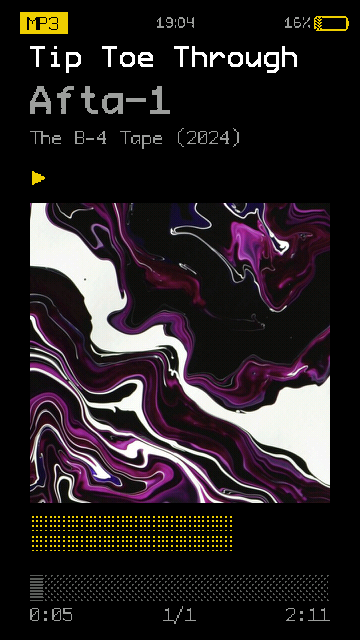
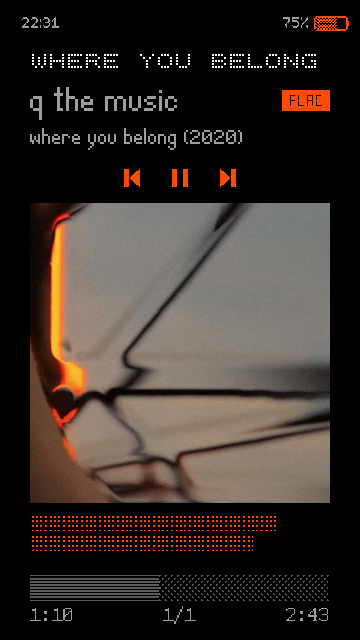
README and previews: re-captured in the Rockbox simulator
All four previews are rendered by the hidizsap80max simulator from the
current theme, in one session: q the music - "where you belong" (2020,
24-bit/48 kHz FLAC with the Bandcamp cover embedded) playing at 1:10,
then the USB screen while charging. The touch-zones overlay is re-based
onto the new now playing capture.

README: touch controls table, updated feature list and fonts, preview
credit line.

diff --git a/README.md b/README.md
@@ -1,29 +1,36 @@
 # FleshAndBones — AP80 Pro Max
 
-**FleshAndBones** is a high-contrast, amber-on-black Rockbox theme built for the **Hidizs AP80 Pro Max** (360×640 portrait touchscreen). It is a faithful port of nicnic's *FleshAndBones* — itself based on Jihoon Kim's *OneBit_OLED* and chronicallyoffline's *OneBit_VFD* — re-laid-out natively for the device's tall 249 dpi panel, with every bitmap and font scaled ×1.5 from the original 320×240 assets so the classic pixel grid and proportions are preserved.
+**FleshAndBones** is a high-contrast Rockbox theme with vacuum-tube orange accents on black, built for the **Hidizs AP80 Pro Max** (360×640 portrait touchscreen). It is a faithful port of nicnic's *FleshAndBones* — itself based on Jihoon Kim's *OneBit_OLED* and chronicallyoffline's *OneBit_VFD* — re-laid-out natively for the device's tall 249 dpi panel, with every bitmap and the original fonts scaled ×1.5 from the original 320×240 assets so the classic pixel grid and proportions are preserved.
 
 ## Previews
 
-| Main menu | Now playing |
-|:---------:|:-----------:|
-| ![Main menu](previews/00-main-menu.png) | ![Now playing](previews/02-now-playing.png) |
+| Main menu | Now playing | Touch zones | USB connected |
+|:---------:|:-----------:|:-----------:|:-------------:|
+| ![Main menu](previews/00-main-menu.png) | ![Now playing](previews/02-now-playing.png) | <img src="previews/03-touch-zones.png" width="360" alt="Touch zones"> | ![USB screen](previews/04-usb-screen.png) |
+
+<sub>Screenshots rendered by the Rockbox simulator for the AP80 Pro Max. Track: [“where you belong” by q the music](https://qthemusic.bandcamp.com/track/where-you-belong) (2020) — cover art © q the music.</sub>
 
 ## Features
 
 - **Full WPS layout** — track title / artist / album, 300×300 album-art box, dithered progress bar, peak meter, and graphic volume bar
-- **Custom header** — codec tag (`MP3`, `FLAC`, …), clock, battery percentage + 11-frame battery icon, all drawn by the skin (status bar disabled)
+- **Vacuum-tube orange accents** (`#FF4D00`) on pure black — battery icon, playback buttons, peak meter, codec tag, the selected item in every list and the menu's header and footer rules.
+- **Dot-matrix track info** — the title in *SquareDotCombined* (also covers Japanese, Chinese and Korean), the artist and album in *LanaPixel*, and a solid orange codec tag (`MP3`, `FLAC`, …) in *Digital-7 Mono* at the end of the artist line
+- **Tactile progress bar** — tap it to jump, or drag along it and lift to seek, with a finger-sized touch zone around the bar
+- **Touch transport** — small previous · play/pause · next buttons (16×18 px glyphs, 48 px apart) centred under the track info
+- **Custom header** — clock on the left, battery percentage + 11-frame battery icon on the right, all drawn by the skin (status bar disabled)
 - **Lock screen** — big clock, now-playing info, time remaining, plus charging / low-battery states
-- **Playback indicators** — play, shuffle, repeat and seek icons in the play screen
+- **USB screen** — while connected to a computer: a big clock, the date, the battery level (big percentage + a dot-matrix gauge in the peak meter's style), charging status (Charging / Charged / Not charging) and battery voltage, with the eject reminder in the footer
+- **Playback indicators** — shuffle, repeat and seek icons in the play screen
 - **1-bit monochrome iconset** for the file browser and viewers (`modone.bmp` / `modone_viewer.bmp`)
-- **ProFontIIx + Monogram fonts** at every UI size, preloaded for smooth rendering
-- **Touch-friendly lists** — row pitch tuned to the panel (font 26 + list padding 57 = 83 px), exactly seven rows filling the screen
+- **LanaPixel main font** for the menus, file browser, settings and the now-playing footer (covers Japanese, Chinese and Korean), with the original ProFontIIx + Monogram fonts for the clock, battery percentage and labels, plus the three track-info fonts on the now-playing screen. The "Rockbox" title in the menu header uses the track title's dot-matrix font (SquareDotCombined)
+- **Touch-friendly lists** — row pitch tuned to the panel (LanaPixel 42 px + list padding 37 = 79 px), exactly six rows between the header and the now playing footer, with a margin above and below them so rows scrolled by touch stop short of the orange rules
 - **Portrait-native WPS/SBS** authored directly at 360×640 — no letterboxing or scale artifacts
 
 ## Contents
 
 ```
 .rockbox/
-├── fonts/    # ProFontIIx (23/26/33/35/44/50) + 11-monogram
+├── fonts/    # LanaPixel (14/21), ProFontIIx (23/26/33/35/44/50) + 11-monogram, 35-SquareDotCombined, 20-digital7mono
 ├── icons/    # modone iconset (main + viewers)
 ├── themes/   # FleshAndBones.cfg (colours, fonts, list padding)
 └── wps/      # FleshAndBones.wps / FleshAndBones.sbs + bitmaps
@@ -33,9 +40,28 @@
 
 1. Copy the **contents** of `.rockbox/` (`fonts`, `icons`, `themes`, `wps`) into the `.rockbox` folder on your AP80 Pro Max, merging with any existing files.
 2. On the device go to **Settings → Theme Settings → Theme** and select **FleshAndBones**.
-3. Restart or re-apply the theme if the skin does not refresh immediately.
+3. Restart or re-apply the theme if the skin does not refresh immediately. When updating from an earlier version, select the theme again: the colours, the main font and the list padding are stored in the theme's `.cfg`, and Rockbox only reads them when the theme is applied.
 
 > **Album art:** the skin prefers an image file (`cover.jpg` / `cover.png`) sitting next to your tracks and crops it into a 300×300 box.
+
+## Touch controls
+
+The first four areas are on the now playing screen; the last one is in the footer of the menus and file browser.
+
+| Area | Tap | Hold / drag |
+|---|---|---|
+| ⏮ Previous | Previous track (restarts the current one after 3 s) | Rewind |
+| ⏸ / ▶ Play/Pause | Pause / resume (resumes the last playlist when stopped) | — |
+| ⏭ Next | Next track | Fast-forward |
+| Progress bar | Jump to that position | Drag to preview, lift to seek |
+| ▶ / ⏸ icon in the now playing footer (menus) | Pause / resume (resumes the last playlist when stopped) | — |
+
+- The icons stay small, but each button has a larger invisible 48×50 px tap target (46×50 for the footer icon in the menus). The seek zone spans exactly the bar's width, so where you touch maps 1:1 to the track position. It reaches from the gap above the bar down through the time row (~7 mm tall), so you don't have to hit the 26 px bar itself.
+- The centre icon shows ⏸ while playing and ▶ when paused or stopped. While seeking it shows the theme's ◀◀ / ▶▶ arrows.
+- Previous/next go through the same path as the hardware buttons, so skip length, A-B repeat, cuesheets and Party Mode are respected.
+- Touch targets are disabled on the lock screen and while the volume bar is shown; the footer icon ignores taps while the keys are locked. Shuffle/repeat moved to the right end of the button row and are display only.
+- Requires **Settings → General Settings → Display → Touchscreen Settings → Touchscreen Mode: Point**, which is the default on this player. The theme does not change this setting.
+- Checked with `checkwps` for the `hidizsap80max` target and tested with touch input in the AP80 Pro Max simulator (Rockbox `8f38274e`). It still needs testing on a physical device.
 
 ## Credits
 
@@ -43,7 +69,8 @@
 - **Based on:** *OneBit_OLED* by Jihoon Kim · *OneBit_VFD* by chronicallyoffline \<ben@chronicallyoffline.xyz\>
 - **Thanks to:** Jihoon Kim, Chuck Lardo and D0-0K for inspiration and for code/assets reused under CC-BY-SA and GPL v3 respectively
 - **AP80 Pro Max port:** colours, fonts, iconsets and 360×640 layout — v1.0 (2026-04-09)
+- **Fonts:** *LanaPixel* (main font and artist) by eishiya · *SquareDot* and *Digital-7 Mono* by Sizenko Alexander (Style-7) · *SquareDotCombined* (SquareDot plus CJK glyphs) from ottoptj's *CrazyBitMono*. The `.fnt` files and the vacuum-tube orange come from mr-f0xx's *CrazyBit Tube Edition* for the AP80 Pro Max; `35-SquareDotCombined.fnt` is a ¾-size version made from its `47-SquareDotCombined.fnt` (the same dots on a 3 px grid).
 
 ## License
 
-CC BY-SA 3.0 — reused code/assets remain under CC BY-SA 3.0 / GPL v3 as noted in the source files.
+CC BY-SA 3.0 — reused code/assets remain under CC BY-SA 3.0 / GPL v3 as noted in the source files. The bundled LanaPixel, SquareDot and Digital-7 Mono fonts keep their own licences: LanaPixel is CC BY 4.0; SquareDot and Digital-7 Mono are Style-7 freeware for personal use.
